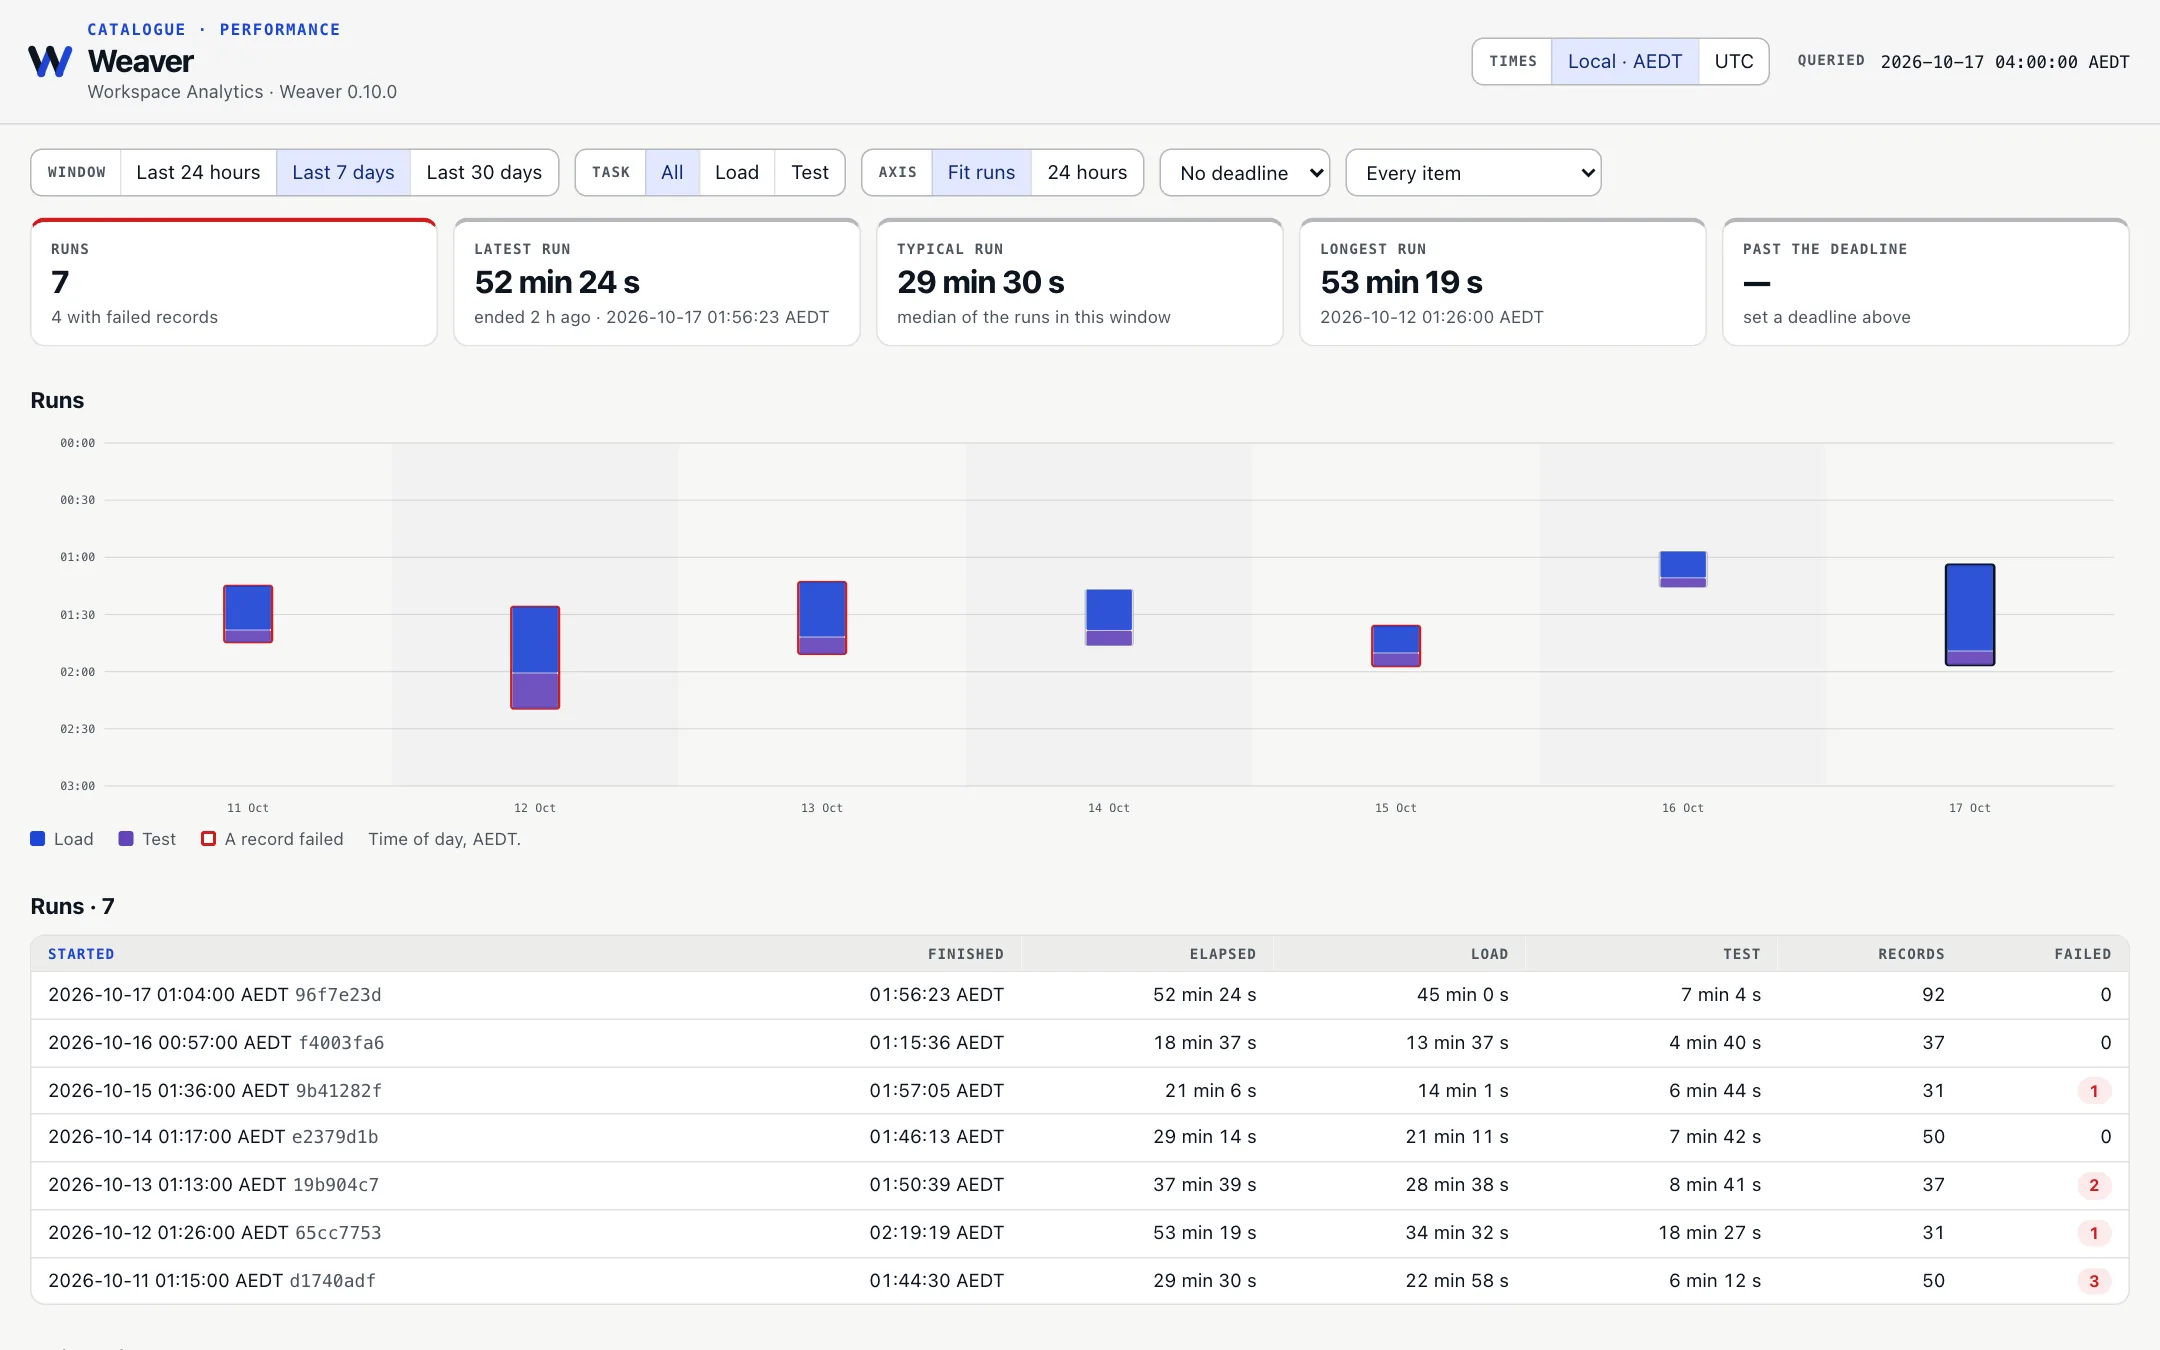
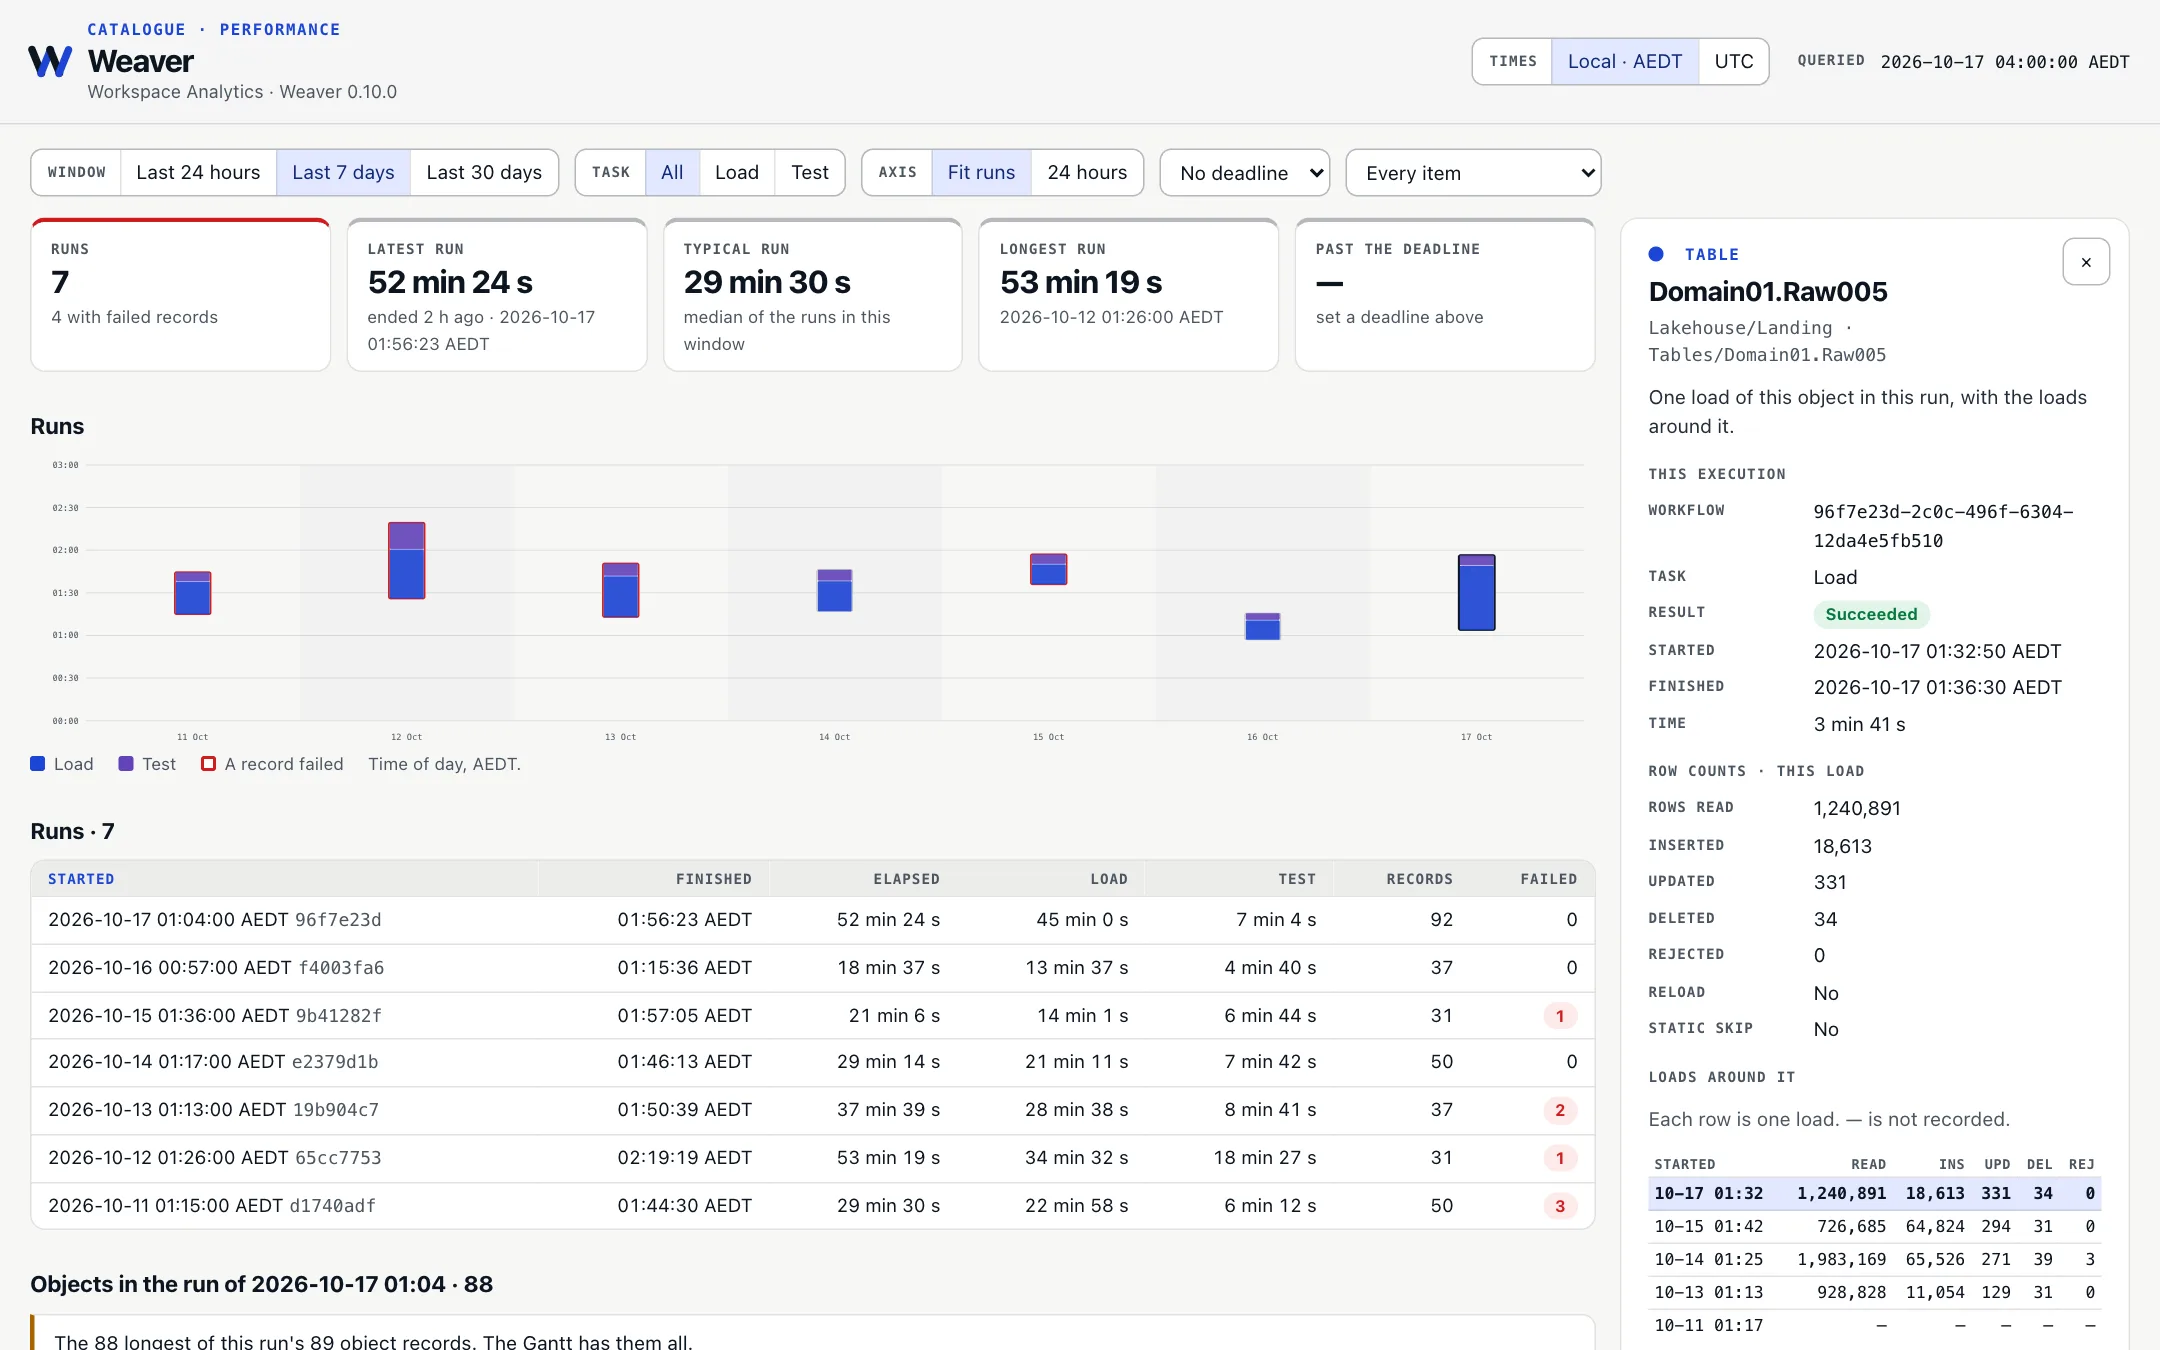
docs: refresh the Performance screenshot on the product site

diff --git a/docs/features/index.html b/docs/features/index.html
@@ -134,7 +134,7 @@
 <p class="group-lead">Weaver comes with a Power BI dashboard over the catalogue. One command deploys it beside your estate.</p>
 <figure class="feature-spotlight dashboard-spotlight" data-spotlight="catalogue-dashboard" aria-labelledby="dashboard-title">
 <h3 id="dashboard-title">The whole estate, at a glance.</h3>
-<div class="dashboard-gallery"><a href="https://docs.weaverstack.dev/estate/catalogue-dashboard/#overview"><img src="/assets/images/catalogue-dashboard/overview.webp" width="1440" height="900" loading="lazy" alt="Overview: installed items and Health."><span>Overview</span></a><a href="https://docs.weaverstack.dev/estate/catalogue-dashboard/#orchestration"><img src="/assets/images/catalogue-dashboard/orchestration.webp" width="1440" height="900" loading="lazy" alt="Orchestration: one table's lineage, readiness and last outcome."><span>Orchestration</span></a><a href="https://docs.weaverstack.dev/estate/catalogue-dashboard/#performance"><img src="/assets/images/catalogue-dashboard/performance.webp" width="1440" height="900" loading="lazy" alt="Performance: each run as a bar from its start to its finish by time of day, with its Load and Test parts."><span>Performance</span></a><a href="https://docs.weaverstack.dev/estate/catalogue-dashboard/#gantt"><img src="/assets/images/catalogue-dashboard/gantt.webp" width="1440" height="900" loading="lazy" alt="Gantt: one workflow's loads and Tests on a timeline."><span>Gantt</span></a><a href="https://docs.weaverstack.dev/estate/catalogue-dashboard/#entity-dictionary"><img src="/assets/images/catalogue-dashboard/entities.webp" width="1440" height="900" loading="lazy" alt="Entity dictionary: an ER diagram from declared keys."><span>Entity dictionary</span></a></div>
+<div class="dashboard-gallery"><a href="https://docs.weaverstack.dev/estate/catalogue-dashboard/#overview"><img src="/assets/images/catalogue-dashboard/overview.webp" width="1440" height="900" loading="lazy" alt="Overview: installed items and Health."><span>Overview</span></a><a href="https://docs.weaverstack.dev/estate/catalogue-dashboard/#orchestration"><img src="/assets/images/catalogue-dashboard/orchestration.webp" width="1440" height="900" loading="lazy" alt="Orchestration: one table's lineage, readiness and last outcome."><span>Orchestration</span></a><a href="https://docs.weaverstack.dev/estate/catalogue-dashboard/#performance"><img src="/assets/images/catalogue-dashboard/performance.webp" width="1440" height="900" loading="lazy" alt="Performance: each run as a bar from its start to its finish by time of day, and one load's own row counts beside the loads around it."><span>Performance</span></a><a href="https://docs.weaverstack.dev/estate/catalogue-dashboard/#gantt"><img src="/assets/images/catalogue-dashboard/gantt.webp" width="1440" height="900" loading="lazy" alt="Gantt: one workflow's loads and Tests on a timeline."><span>Gantt</span></a><a href="https://docs.weaverstack.dev/estate/catalogue-dashboard/#entity-dictionary"><img src="/assets/images/catalogue-dashboard/entities.webp" width="1440" height="900" loading="lazy" alt="Entity dictionary: an ER diagram from declared keys."><span>Entity dictionary</span></a></div>
 <figcaption>Health, the Orchestration graph, when each run started and finished, a Gantt of each workflow, an ER diagram with a metadata browser, and a bus matrix for every semantic model.</figcaption>
 <p class="spotlight-docs"><a href="https://docs.weaverstack.dev/estate/catalogue-dashboard/#the-pages">Try every page in the browser</a><span aria-hidden="true"> · </span><a href="https://docs.weaverstack.dev/estate/catalogue-dashboard/#deploy-the-dashboard">Deploy the Catalogue Dashboard</a></p>
 </figure><div class="feature-list">
